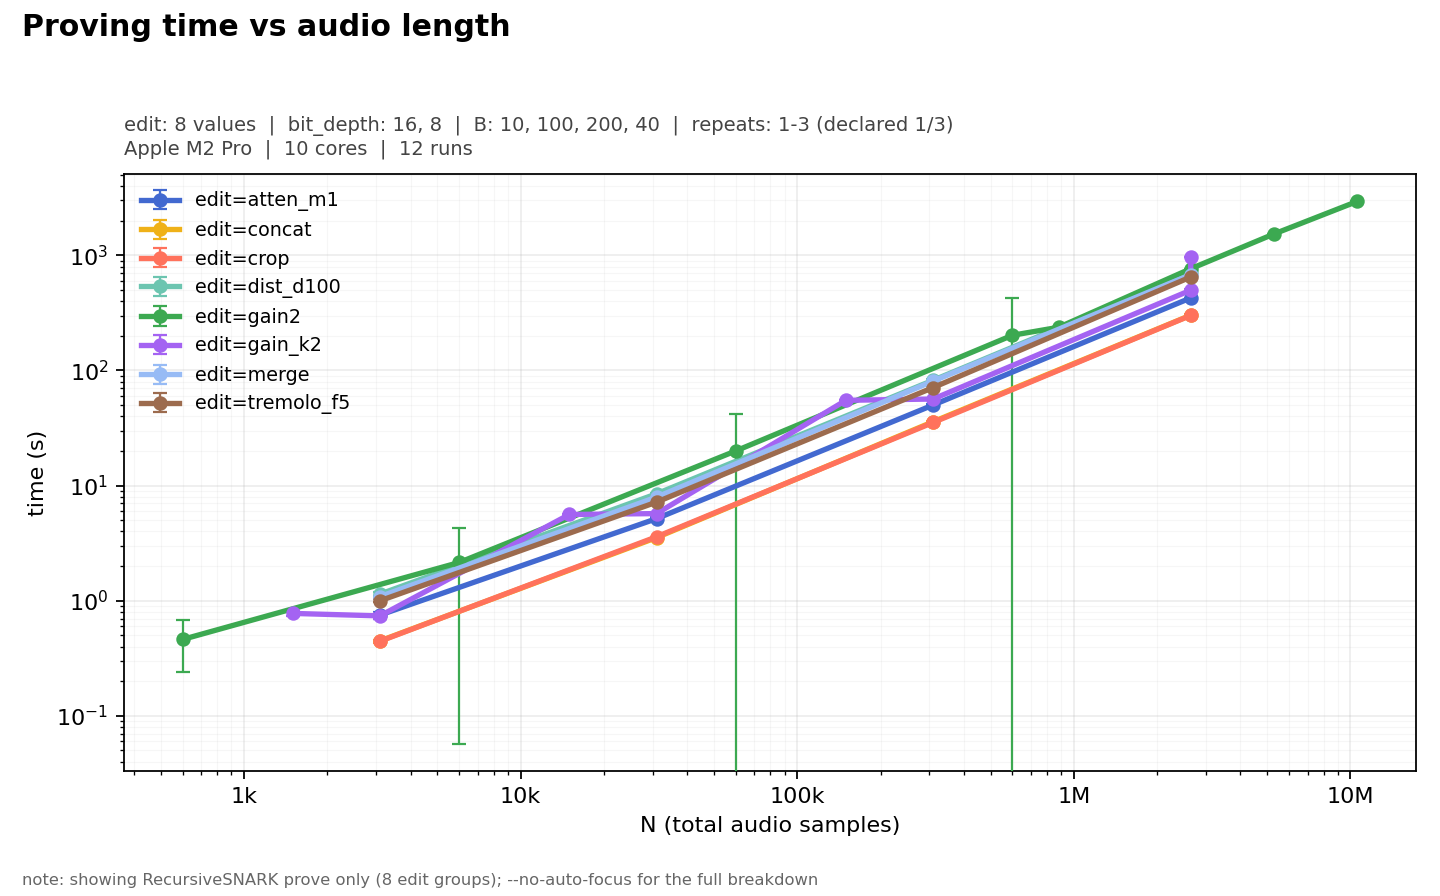
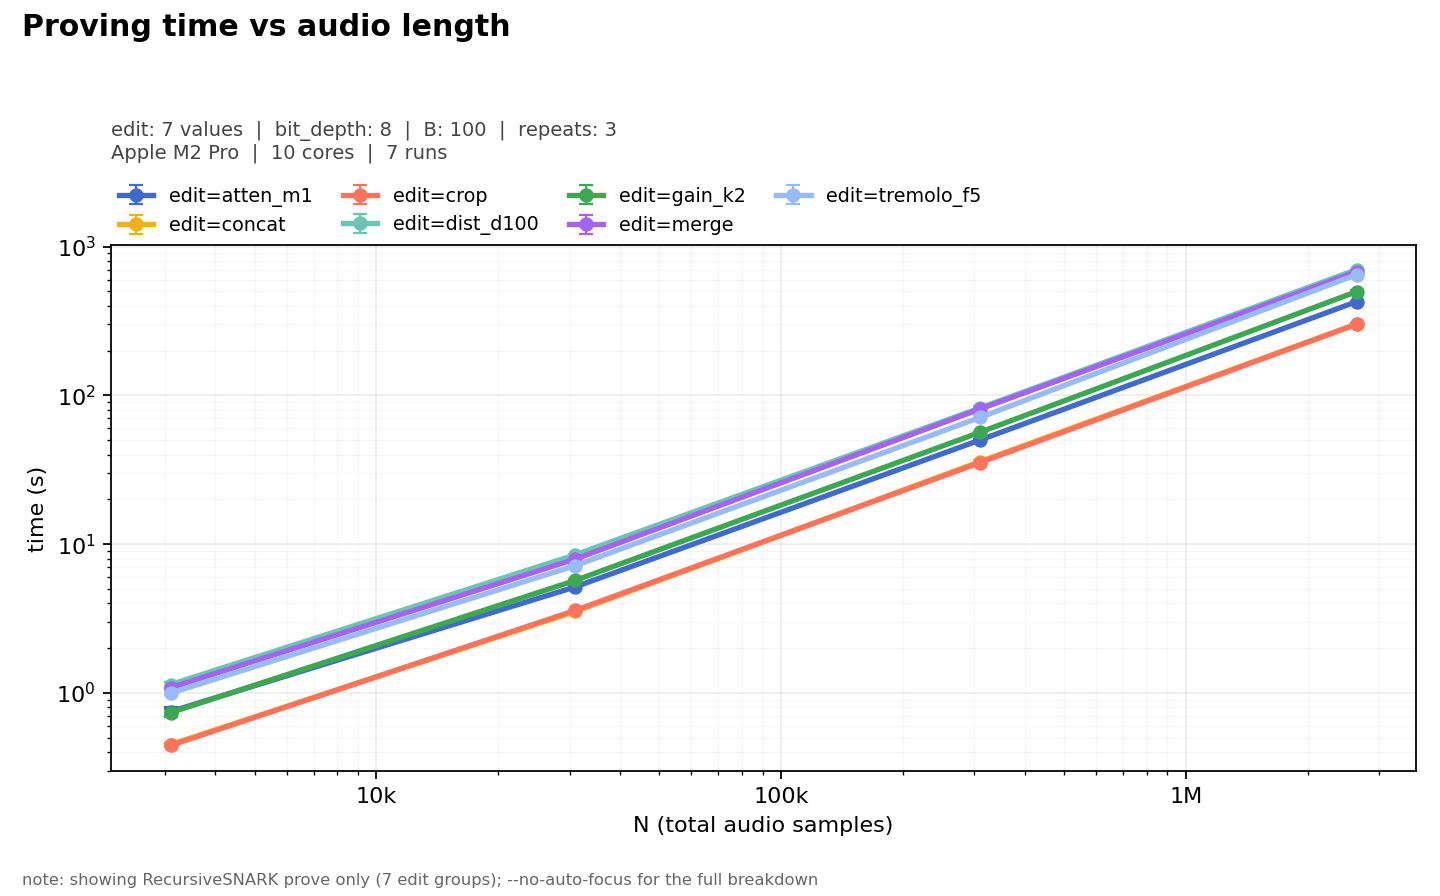
fix: edit benchmark plot

diff --git a/docs/plot_edit_constraints.py b/docs/plot_edit_constraints.py
@@ -1,0 +1,155 @@
+#!/usr/bin/env python3
+"""Per-step circuit size by edit family, at bit_depth=8 and B=100.
+
+Scope is deliberately narrow: one depth, one batch size, `gain2` excluded
+(it is the legacy non-clamping relation and not comparable to the others).
+That leaves exactly one circuit per family, so the comparison is apples to
+apples - every bar covers the same 3,100 audio samples per folding step.
+
+Form: a horizontal bar chart, sorted. The job is "compare magnitude across
+named categories", the names are long, and there is no time axis - so bars,
+not lines, and horizontal so the family names read straight.
+
+Constraints are a STATIC property of the compiled circuit, not a
+measurement: every run of a family reports the identical number. The script
+asserts that rather than averaging, because disagreement would mean two
+different circuits were being compared under one name.
+
+Run:  /usr/bin/python3 docs/plot_edit_constraints.py
+"""
+import json
+import glob
+import os
+import sys
+import collections
+
+import matplotlib
+matplotlib.use("Agg")
+import matplotlib.ticker
+import matplotlib.pyplot as plt
+
+ACCENT = "#2a78d6"
+INK = "#0b0b0b"
+INK2 = "#52514e"
+GRID = "#dedddb"
+
+HERE = os.path.dirname(os.path.abspath(__file__))
+ROOT = os.path.dirname(HERE)
+
+BIT_DEPTH, BATCH = 8, 100
+EXCLUDE = {"gain2"}          # legacy relation, no clamping - not comparable
+
+# What each family's step circuit has to do beyond the shared hash+unpack,
+# for the annotation column. Kept short; the point is why the bars differ.
+WORK = {
+    "crop":       "pass-through + counter",
+    "concat":     "select between two streams",
+    "atten_m1":   "shift right (floor)",
+    "gain_k2":    "multiply + saturate",
+    "merge":      "average two streams",
+    "tremolo_f5": "LFO table lookup + multiply",
+    "dist_d100":  "rectify + blend (wet/dry)",
+}
+
+
+def load():
+    fams = collections.defaultdict(set)
+    nvals = collections.defaultdict(set)
+    for f in glob.glob(os.path.join(ROOT, "logs", "bench", "**", "results.jsonl"),
+                       recursive=True):
+        for line in open(f):
+            line = line.strip()
+            if not line:
+                continue
+            r = json.loads(line)
+            if r.get("status") != "ok":
+                continue
+            if r.get("bit_depth") != BIT_DEPTH or r.get("batch_size") != BATCH:
+                continue
+            e = r.get("edit")
+            if not e or e in EXCLUDE:
+                continue
+            fams[e].add((r["constraints_primary"], r.get("variables_primary"),
+                         r.get("comp_size")))
+            nvals[e].add(r["total_samples"])
+    return fams, nvals
+
+
+def main():
+    fams, nvals = load()
+    if not fams:
+        print("no bd=8 B=100 rows found", file=sys.stderr)
+        return 1
+
+    # A family reporting two different constraint counts would mean the
+    # circuit changed between runs; averaging that would hide it.
+    for e, s in sorted(fams.items()):
+        if len(s) != 1:
+            print(f"ERROR: {e} has inconsistent circuit sizes: {sorted(s)}",
+                  file=sys.stderr)
+            return 1
+
+    data = []
+    for e, s in fams.items():
+        c, v, cs = next(iter(s))
+        data.append((e, c, v, cs))
+    data.sort(key=lambda t: t[1])
+
+    comp = {d[3] for d in data}
+    if len(comp) != 1:
+        print(f"ERROR: mixed comp_size {comp}", file=sys.stderr)
+        return 1
+    spb = comp.pop() * BATCH          # audio samples per folding step
+
+    fig, ax = plt.subplots(figsize=(11.6, 5.8))
+    ys = range(len(data))
+    names = [d[0] for d in data]
+    cons = [d[1] for d in data]
+
+    ax.barh(list(ys), cons, .62, color=ACCENT, zorder=3)
+    lo = min(cons)
+    for i, (e, c, v, _cs) in enumerate(data):
+        ax.text(c + max(cons) * .012, i, f"{c:,}", va="center", ha="left",
+                fontsize=10, color=INK, fontweight="bold")
+        ax.text(c + max(cons) * .012, i - .265,
+                f"{c/spb:.1f}/sample",
+                va="center", ha="left", fontsize=7.8, color=INK2)
+
+    ax.set_yticks(list(ys))
+    ax.set_yticklabels(names, fontsize=10.5)
+    ax.set_xlabel("constraints per folding step (primary circuit)")
+    ax.set_xlim(0, max(cons) * 1.30)
+    ax.xaxis.set_major_formatter(
+        matplotlib.ticker.FuncFormatter(lambda v, _p: f"{v/1000:g}k" if v else "0"))
+    ax.grid(axis="x", color=GRID, lw=.8)
+    ax.set_axisbelow(True)
+    for s in ("top", "right", "left"):
+        ax.spines[s].set_visible(False)
+    ax.tick_params(axis="y", length=0)
+
+    fig.suptitle("Circuit cost per folding step, by edit", x=.008, ha="left",
+                 fontsize=14, fontweight="bold", y=.975)
+    ax.set_title(f"bit_depth {BIT_DEPTH} · B={BATCH} · {spb:,} audio samples per step",
+                 loc="left", fontsize=9.6, color=INK2, pad=10)
+    fig.text(.008, .018,
+             "Constraints are a static property of the compiled circuit — identical "
+             "across every run of a family, not a timing measurement.",
+             fontsize=8.2, color=INK2, ha="left")
+
+    fig.tight_layout(rect=(0, .045, 1, .935))
+    out = os.path.join(ROOT, "logs", "bench", "_combined",
+                       "edit_constraints_b8_B100.png")
+    os.makedirs(os.path.dirname(out), exist_ok=True)
+    fig.savefig(out, dpi=170)
+    print("wrote", os.path.relpath(out, ROOT))
+
+    print(f"\n{'edit':<12} {'constraints':>11} {'vars':>11} {'/sample':>9} "
+          f"{'vs cheapest':>12} {'N values':>9}")
+    for e, c, v, _cs in data:
+        print(f"{e:<12} {c:>11,} {v:>11,} {c/spb:>9.1f} {c/lo:>11.2f}× "
+              f"{len(nvals[e]):>8}")
+    return 0
+
+
+if __name__ == "__main__":
+    sys.exit(main())

diff --git a/docs/plot_bench.py b/docs/plot_bench.py
@@ -442,11 +442,22 @@ def plot_mpl(fig_data, outpath, logx, dpi):
 
     fig.suptitle(meta["title"], x=0.015, ha="left", fontsize=13.5,
                  fontweight="bold", y=0.985)
+    legend_rows = 0
+    if len(groups) > 1 or groups and groups[0][0]:
+        ncol_probe = 4 if len(groups) > 6 else (3 if len(groups) > 2 else len(groups))
+        legend_rows = -(-len(groups) // max(1, ncol_probe))
     ax.set_title(meta["header"] + "\n" + meta["subheader"],
-                 loc="left", fontsize=8.8, color="#444", pad=9)
+                 loc="left", fontsize=8.8, color="#444",
+                 pad=9 + 15 * legend_rows)
 
     if len(groups) > 1 or groups and groups[0][0]:
-        ax.legend(frameon=False, fontsize=8.6, loc="best")
+        # Outside the axes, under the header: `loc="best"` places the legend
+        # inside the data area, where on a dense multi-series figure it sits
+        # on top of the curves it is describing.
+        ncol = 4 if len(groups) > 6 else (3 if len(groups) > 2 else len(groups))
+        ax.legend(frameon=False, fontsize=8.6, ncol=max(1, ncol),
+                  loc="lower left", bbox_to_anchor=(0, 1.005),
+                  borderaxespad=0, columnspacing=1.6, handlelength=1.8)
 
     if meta.get("annotate_spread"):
         lbl = spread_label(groups)
@@ -460,7 +471,7 @@ def plot_mpl(fig_data, outpath, logx, dpi):
         fig.text(0.015, 0.012, "note: " + meta["note"], fontsize=7.4,
                  color="#666", ha="left")
 
-    fig.tight_layout(rect=(0, 0.035, 1, 0.96))
+    fig.tight_layout(rect=(0, 0.035, 1, 0.955))
     fig.savefig(outpath, dpi=dpi)
     plt.close(fig)
 
